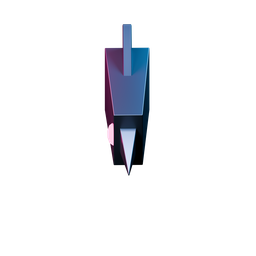
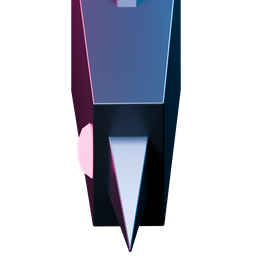
feat(assets): integrate 3D PBR sprites — ortho_scale 3.5/4.5, fixed materials
Replaces previous sprites with new Blender 4.2 Cycles bake:
- ortho_scale: 8.6→3.5 (heroes/enemies), 4.5 (boss)
- NVX_Dark base: (0.012,0.018,0.028)→(0.060,0.075,0.100)
- NVX_Carbon base: (0.035,0.045,0.060)→(0.090,0.100,0.130)
- Ship geometry auto-centered at world origin before render

Fill rates (opaque %):
  hero-vanguard 34.4% | hero-striker 26.5% | hero-controller 35.5%
  enemy-hunter 23.5% | enemy-tank 54.7% | enemy-dasher 20.2%
  enemy-weaver 22.2% | enemy-orbiter 34.2% | enemy-boss 61.5%

Service worker: noryvx-v27-1-0 → noryvx-v27-2-0 (cache bust)
Frame-name contract unchanged. Gameplay/collision/HUD untouched.

diff --git a/www/service-worker.js b/www/service-worker.js
@@ -1,5 +1,5 @@
-/* NORYVX V27.1.0 — 3D PBR ship sprites integrated */
-const CACHE = "noryvx-v27-1-0";
+/* NORYVX V27.2.0 — 3D PBR sprites ortho_scale=3.5/4.5, fixed materials */
+const CACHE = "noryvx-v27-2-0";
 
 const ASSETS = [
   "./",
